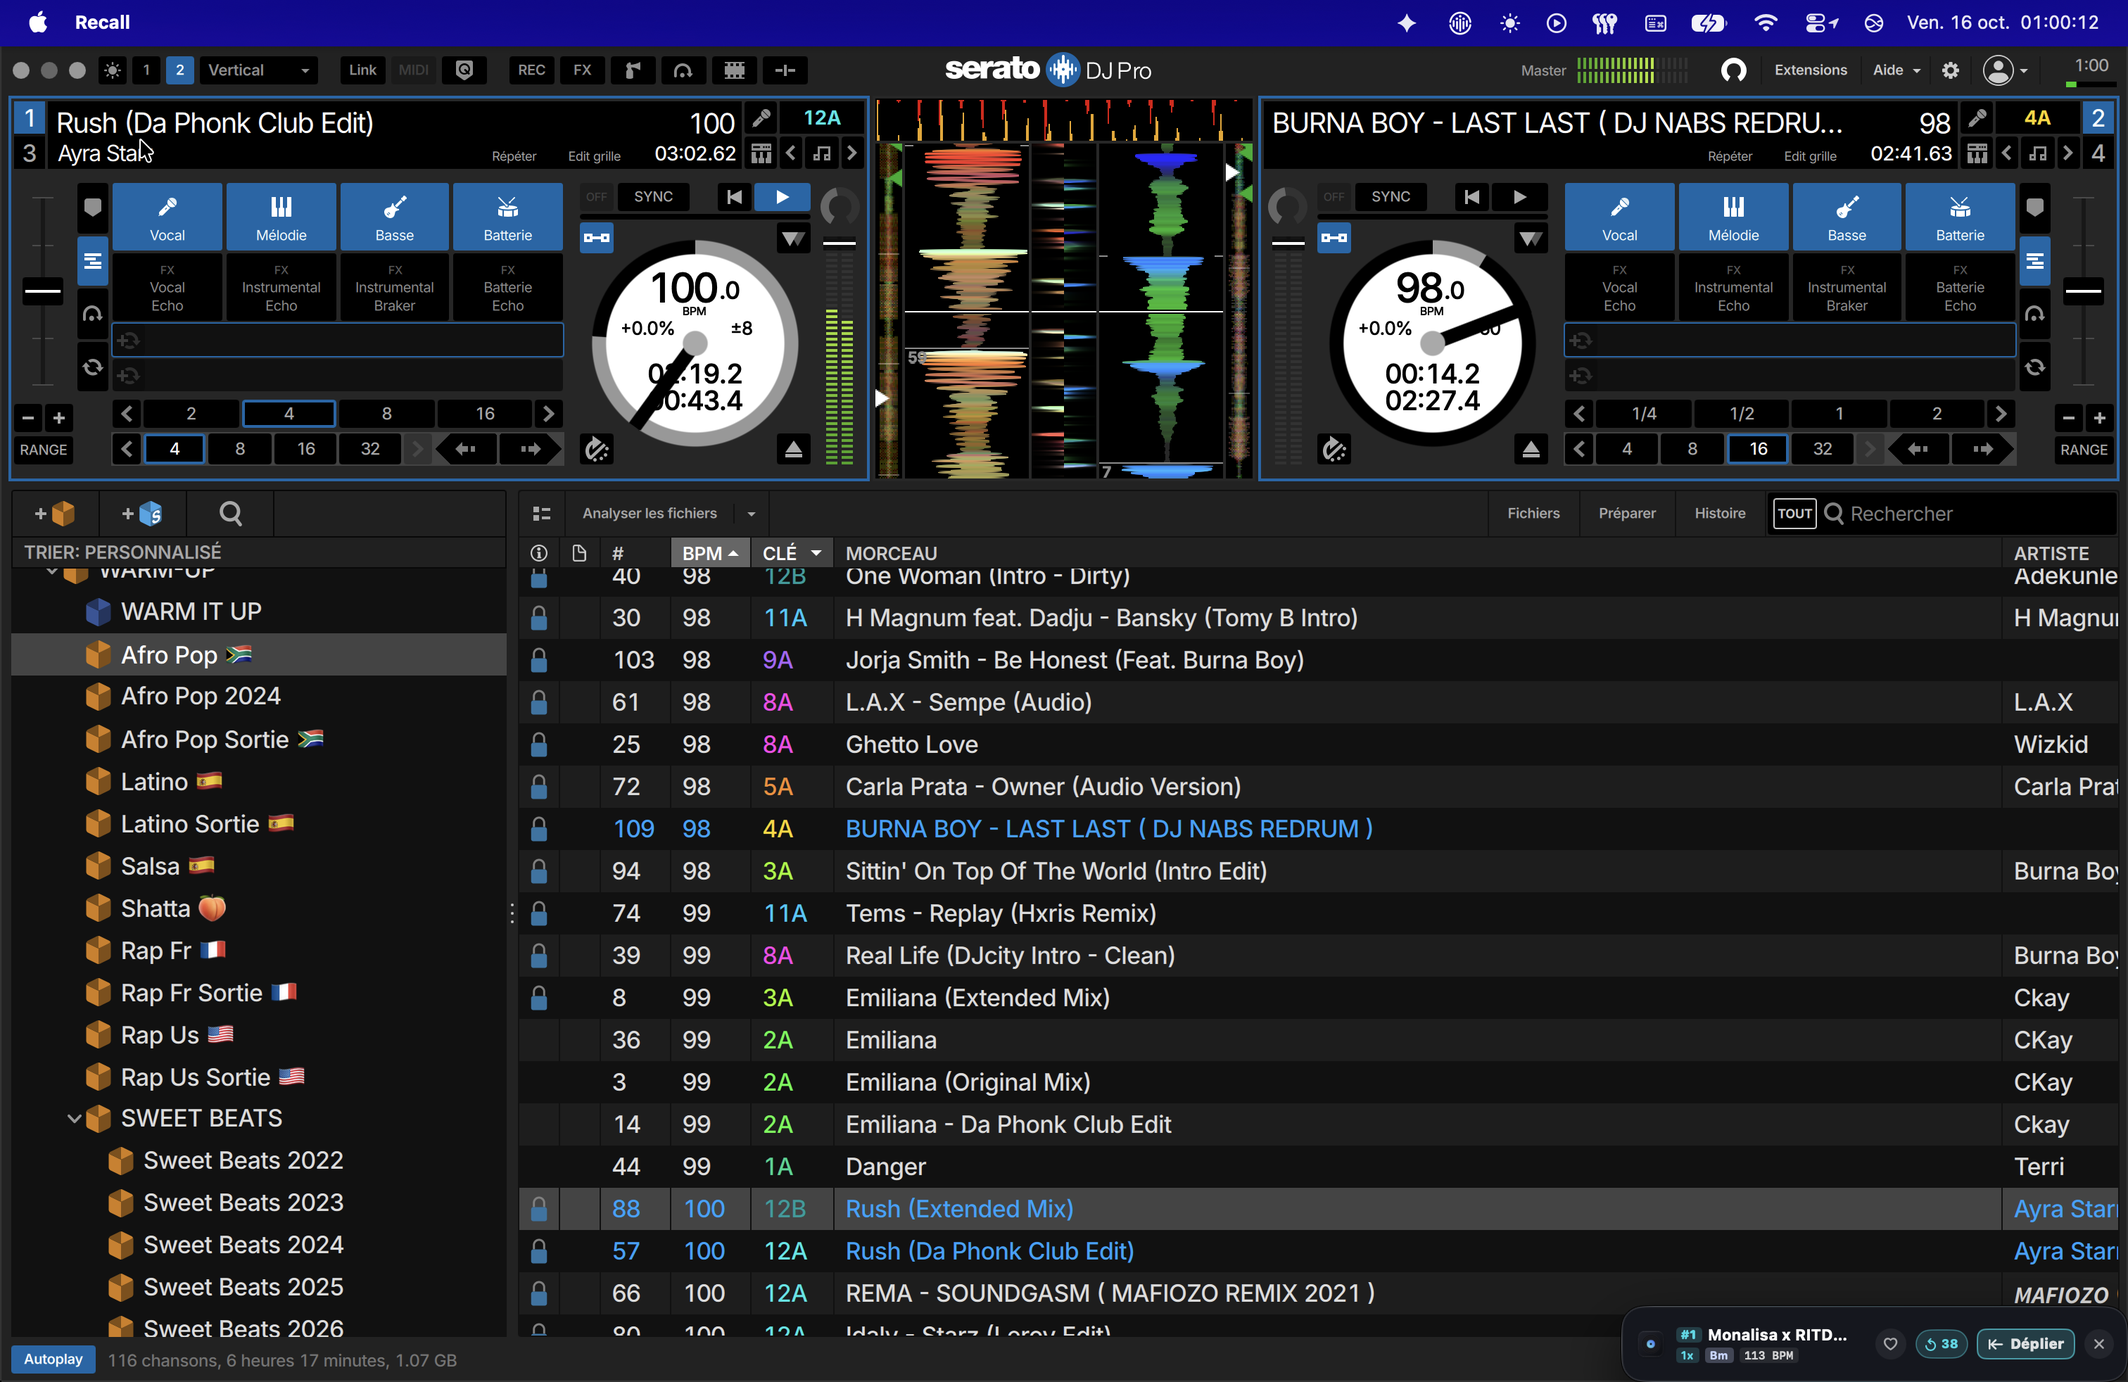
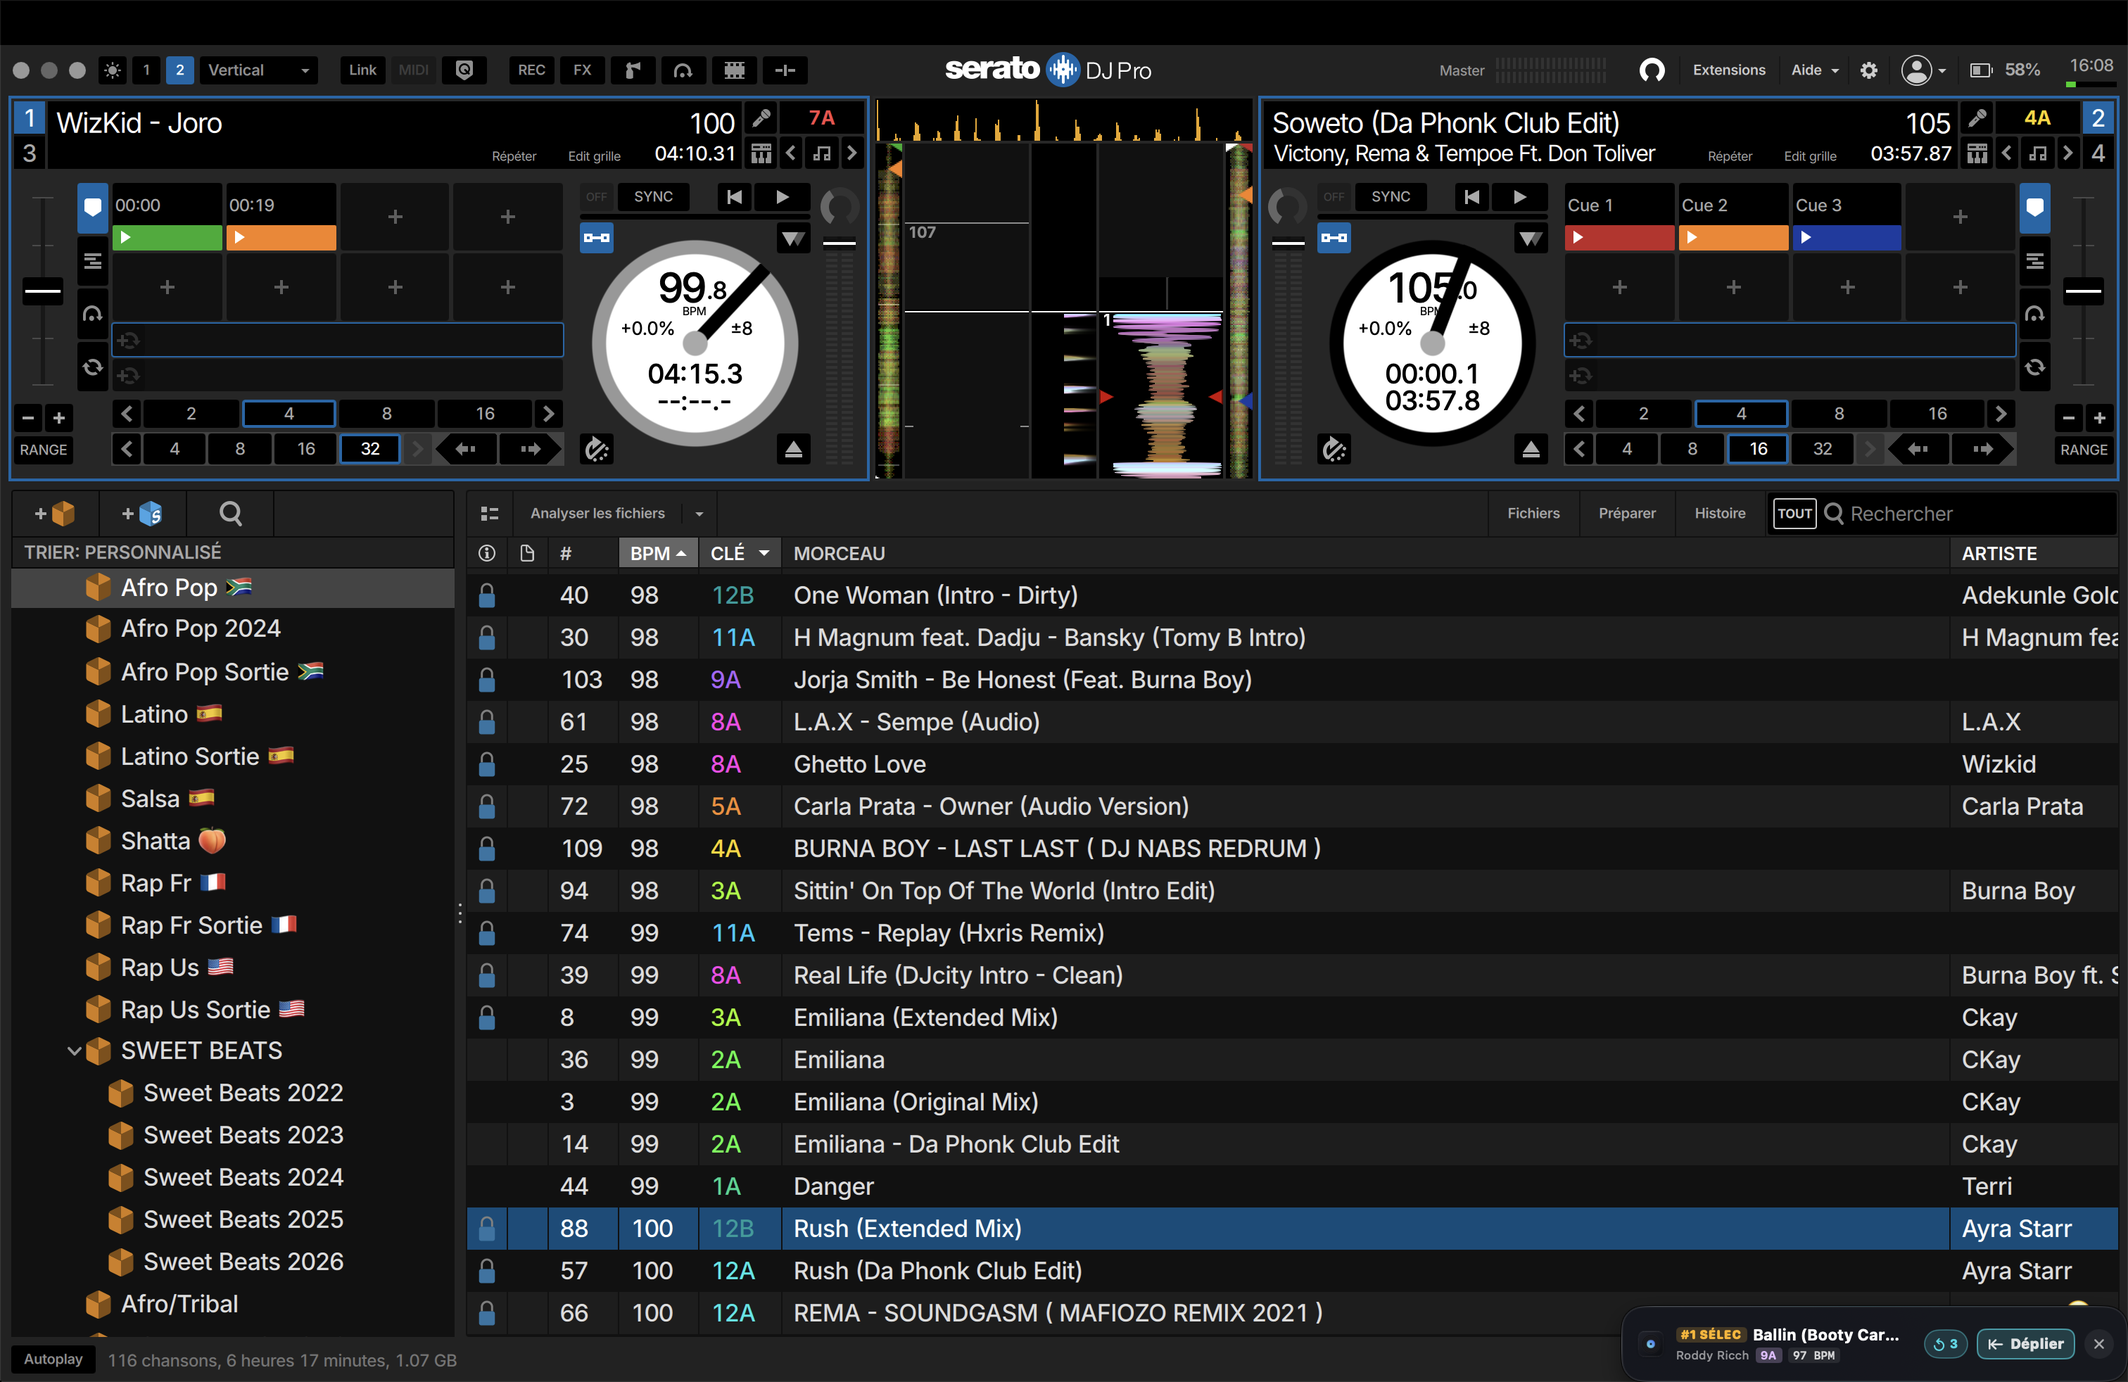
feat(web): mettre en avant la fonctionnalité Sélec et rafraîchir les captures Serato

diff --git a/docs/assets/js/main.js b/docs/assets/js/main.js
@@ -28,7 +28,7 @@ const translations = {
     "hero-pill-text": "Compagnon DJ Indépendant & 100 % Hors-Ligne",
     "hero-title-part1": "Ne perdez plus jamais le fil",
     "hero-title-part2": "de vos meilleurs mixes.",
-    "hero-subtitle": "Le copilote intelligent qui fouille vos historiques Serato et Rekordbox pour vous suggérer instantanément vos transitions éprouvées et vos enchaînements harmoniques Camelot en plein set.",
+    "hero-subtitle": "Le copilote intelligent qui fouille vos historiques Serato et Rekordbox pour vous suggérer instantanément vos transitions éprouvées, vos sélections préparées et vos enchaînements harmoniques Camelot en plein set.",
     "hero-btn-mac": "Télécharger pour macOS",
     "hero-btn-win": "Télécharger pour Windows",
     "hero-btn-github": "Code source GitHub",
@@ -42,10 +42,12 @@ const translations = {
     "mockups-title": "Conçu pour s'intégrer discrètement dans votre workflow DJ.",
     "mockups-subtitle": "Découvrez comment Recall s'incruste naturellement au-dessus de Serato DJ Pro et Pioneer Rekordbox en club ou en festival.",
     "mockup-tab-serato-floating": "Serato DJ Pro · Fenêtre Flottante",
+    "mockup-tab-serato-selec": "Serato DJ Pro · Onglet Sélec",
     "mockup-tab-serato-compact": "Serato DJ Pro · Bandeau Compact (78 px)",
     "mockup-tab-rekordbox": "Pioneer Rekordbox · Mode Pro",
     "mockup-tab-settings": "Paramètres & Clés Harmoniques",
     "mockup-caption-serato-floating": "Recall flottant au-dessus du browser Serato, affichant en temps réel vos routines éprouvées et vos enchaînements harmoniques.",
+    "mockup-caption-serato-selec": "L'onglet Sélec : glissez vos morceaux repérés depuis Serato pour les garder sous la main. Recall les trie automatiquement en direct selon l'affinité BPM et harmonique avec le titre en cours de lecture.",
     "mockup-caption-serato-compact": "Mode Bandeau ultra-compact de 78 px : surveillance discrète au bas de l'écran, laissant 100 % d'espace pour les waveforms et les platines.",
     "mockup-caption-rekordbox": "Compatibilité totale avec Pioneer Rekordbox en mode Performance : suggestions instantanées à chaque sélection de track.",
     "mockup-caption-settings": "Panneau de configuration avec estompage doux : ajustez la tolérance BPM, choisissez entre Camelot et Musicale, et activez le mode Always on Top.",
@@ -71,6 +73,9 @@ const translations = {
     "f2-title": "Harmonie Camelot Wheel",
     "f2-desc": "Chaque suggestion affiche sa clé Camelot exacte, ses clés voisines (+1/-1 heure), ses relatifs majeurs/mineurs ou ses boosts d'énergie (+2 heures) pour un mix harmonieux sans fausse note.",
     "f2-badge": "Compatible Clés Musicales & Open Key",
+    "f-selec-title": "Sélec : Votre Scratchpad DJ & Match Dynamique",
+    "f-selec-desc": "Préparez vos sets sans stress : glissez vos pépites depuis Serato directement dans votre Sélec. Vos morceaux restent mémorisés d'une session à l'autre et se réordonnent automatiquement en direct selon leur compatibilité (BPM et clé Camelot) avec le morceau en cours de lecture.",
+    "f-selec-badge": "Tri automatique par BPM & Camelot",
     "f3-title": "Glisser-Déposer Direct (Drag & Drop)",
     "f3-desc": "Attrapez un titre depuis Recall et glissez-le directement sur la platine 1, 2 ou dans vos bacs de Serato et Rekordbox. Zéro manipulation fastidieuse.",
     "f3-badge": "Natif macOS & Windows",
@@ -127,6 +132,10 @@ const translations = {
     "row5-recall": "< 25 Mo / 0 % CPU",
     "row5-spotify": "> 400 Mo + Connexion",
     "row5-notes": "0 Mo (mais statique)",
+    "row6-name": "Scratchpad \"Sélec\" avec tri dynamique",
+    "row6-val-recall": "✅ OUI (Persistant & Trié en direct)",
+    "row6-val-spotify": "❌ Non",
+    "row6-val-notes": "❌ Non (Bacs fixes ou papier)",
     
     // Downloads
     "dl-tag": "Téléchargement Gratuit",
@@ -201,7 +210,7 @@ const translations = {
     "hero-pill-text": "Independent & 100% Offline DJ Companion",
     "hero-title-part1": "Never lose track",
     "hero-title-part2": "of your best mixes.",
-    "hero-subtitle": "The smart DJ copilot that mines your Serato & Rekordbox history to instantly recommend proven routines and Camelot harmonic transitions in live sets.",
+    "hero-subtitle": "The smart DJ copilot that mines your Serato & Rekordbox history to instantly recommend proven routines, prepped selections, and Camelot harmonic transitions in live sets.",
     "hero-btn-mac": "Download for macOS",
     "hero-btn-win": "Download for Windows",
     "hero-btn-github": "GitHub Source Code",
@@ -215,10 +224,12 @@ const translations = {
     "mockups-title": "Engineered to blend seamlessly into your live DJ setup.",
     "mockups-subtitle": "See how Recall sits discreetly above Serato DJ Pro and Pioneer Rekordbox in the club or at festival stages.",
     "mockup-tab-serato-floating": "Serato DJ Pro · Floating Window",
+    "mockup-tab-serato-selec": "Serato DJ Pro · Sélec Tab",
     "mockup-tab-serato-compact": "Serato DJ Pro · Compact Dock (78 px)",
     "mockup-tab-rekordbox": "Pioneer Rekordbox · Pro Mode",
     "mockup-tab-settings": "Settings & Harmonic Keys",
     "mockup-caption-serato-floating": "Recall floating over Serato crate browser, delivering real-time harmonic matches and proven DJ routines on the fly.",
+    "mockup-caption-serato-selec": "The Sélec tab: drop your prep tracks directly from Serato to keep them handy. Recall ranks them live based on BPM and harmonic match with the currently playing track.",
     "mockup-caption-serato-compact": "78px Ultra-Compact Dock mode: subtle monitoring docked at screen bottom, preserving 100% visibility for waveforms and decks.",
     "mockup-caption-rekordbox": "Full compatibility with Pioneer Rekordbox in Performance mode: instant harmonic suggestions on every track transition.",
     "mockup-caption-settings": "Clean settings sheet with soft dimming backdrop: customize BPM tolerance, harmonic key formats, and Always on Top mode.",
@@ -244,6 +255,9 @@ const translations = {
     "f2-title": "Camelot Wheel Harmonic Mixing",
     "f2-desc": "Every suggestion displays exact Camelot keys, adjacent keys (+1/-1 hr), relative major/minor, or +2 energy boost keys for harmonious blends without clashing frequencies.",
     "f2-badge": "Supports Classic & Musical Key modes",
+    "f-selec-title": "Sélec: Smart DJ Scratchpad & Dynamic Match",
+    "f-selec-desc": "Prep your sets with zero stress: drop your hidden gems directly from Serato into your Sélec crate. Your tracks stay saved across sessions and automatically re-order in real time based on BPM and Camelot harmonic compatibility with what's currently playing.",
+    "f-selec-badge": "Live BPM & Camelot Match Ranking",
     "f3-title": "Direct Drag & Drop",
     "f3-desc": "Grab any suggested track right out of Recall and drag it onto Deck 1, Deck 2, or your crates in Serato and Rekordbox. No tedious searching.",
     "f3-badge": "macOS & Windows Native",
@@ -300,6 +314,10 @@ const translations = {
     "row5-recall": "< 25 MB / 0% CPU",
     "row5-spotify": "> 400 MB + Internet",
     "row5-notes": "0 MB (Static & rigid)",
+    "row6-name": "Smart 'Sélec' scratchpad with dynamic match",
+    "row6-val-recall": "✅ YES (Persistent & Live-sorted)",
+    "row6-val-spotify": "❌ No",
+    "row6-val-notes": "❌ No (Static crates or paper)",
     
     // Downloads
     "dl-tag": "Free Download",
@@ -444,6 +462,17 @@ function setLanguage(lang) {
   const activeMobileBtn = document.getElementById(`lang-${currentLang}-mobile`);
   if (activeMobileBtn) activeMobileBtn.classList.add("active");
 
+  // Update mockup title in current language
+  if (typeof getMockupTitles === "function") {
+    const activeTab = document.querySelector(".mockup-tab-btn.active");
+    const titleText = document.getElementById("mockup-title-text");
+    if (activeTab && titleText) {
+      const targetId = activeTab.getAttribute("data-mockup-target");
+      const titles = getMockupTitles(currentLang);
+      if (titles[targetId]) titleText.textContent = titles[targetId];
+    }
+  }
+
   document.documentElement.lang = currentLang;
 }
 
@@ -537,19 +566,31 @@ function initFAQ() {
 }
 
 // --- Mockups Showcase Tabs ---
+function getMockupTitles(lang) {
+  if (lang === "en") {
+    return {
+      "mockup-serato-floating": "Serato DJ Pro — Recall 1.0 (Floating Mode)",
+      "mockup-serato-selec": "Serato DJ Pro — Recall 1.0 (Sélec Scratchpad)",
+      "mockup-serato-compact": "Serato DJ Pro — Recall 1.0 (78px Compact Dock Mode)",
+      "mockup-rekordbox": "Pioneer Rekordbox — Recall 1.0 (Performance Mode)",
+      "mockup-settings": "Recall 1.0 — Settings Sheet & Soft Dimming"
+    };
+  }
+  return {
+    "mockup-serato-floating": "Serato DJ Pro — Recall 1.0 (Mode Flottant)",
+    "mockup-serato-selec": "Serato DJ Pro — Recall 1.0 (Onglet Sélec & Scratchpad)",
+    "mockup-serato-compact": "Serato DJ Pro — Recall 1.0 (Mode Bandeau Compact 78 px)",
+    "mockup-rekordbox": "Pioneer Rekordbox — Recall 1.0 (Mode Performance)",
+    "mockup-settings": "Recall 1.0 — Panneau des Paramètres & Estompage"
+  };
+}
+
 function initMockupTabs() {
   const tabs = document.querySelectorAll(".mockup-tab-btn");
   const panels = document.querySelectorAll(".mockup-panel");
   const titleText = document.getElementById("mockup-title-text");
 
   if (!tabs.length || !panels.length) return;
-
-  const titles = {
-    "mockup-serato-floating": "Serato DJ Pro — Recall 1.0 (Mode Flottant)",
-    "mockup-serato-compact": "Serato DJ Pro — Recall 1.0 (Mode Bandeau Compact 78 px)",
-    "mockup-rekordbox": "Pioneer Rekordbox — Recall 1.0 (Mode Performance)",
-    "mockup-settings": "Recall 1.0 — Panneau des Paramètres & Estompage"
-  };
 
   tabs.forEach(tab => {
     tab.addEventListener("click", () => {
@@ -568,6 +609,7 @@ function initMockupTabs() {
       const activePanel = document.getElementById(targetId);
       if (activePanel) activePanel.classList.add("active");
 
+      const titles = getMockupTitles(currentLang);
       if (titleText && titles[targetId]) {
         titleText.textContent = titles[targetId];
       }

diff --git a/docs/index.html b/docs/index.html
@@ -183,6 +183,10 @@
           <svg width="15" height="15" viewBox="0 0 24 24" fill="none" stroke="currentColor" stroke-width="2"><rect x="3" y="3" width="18" height="18" rx="3"/><path d="M9 3v18"/></svg>
           <span data-i18n="mockup-tab-serato-floating">Serato DJ Pro · Fenêtre Flottante</span>
         </button>
+        <button type="button" class="mockup-tab-btn" data-mockup-target="mockup-serato-selec" role="tab" aria-selected="false">
+          <svg width="15" height="15" viewBox="0 0 24 24" fill="none" stroke="currentColor" stroke-width="2"><path d="M19 21l-7-5-7 5V5a2 2 0 0 1 2-2h10a2 2 0 0 1 2 2z"/></svg>
+          <span data-i18n="mockup-tab-serato-selec">Serato DJ Pro · Onglet Sélec</span>
+        </button>
         <button type="button" class="mockup-tab-btn" data-mockup-target="mockup-serato-compact" role="tab" aria-selected="false">
           <svg width="15" height="15" viewBox="0 0 24 24" fill="none" stroke="currentColor" stroke-width="2"><rect x="3" y="14" width="18" height="7" rx="2"/></svg>
           <span data-i18n="mockup-tab-serato-compact">Serato DJ Pro · Bandeau Compact (78 px)</span>
@@ -224,7 +228,16 @@
             </div>
           </div>
 
-          <!-- Item 2: Serato Compact Dock -->
+          <!-- Item 2: Serato Sélec Drawer -->
+          <div class="mockup-panel" id="mockup-serato-selec">
+            <img src="assets/images/recall-serato-selec.png" alt="Recall avec l'onglet Sélec ouvert au-dessus de Serato DJ Pro" class="mockup-img" loading="lazy">
+            <div class="mockup-caption-overlay">
+              <span class="caption-pill amber">🔖 Scratchpad Sélec</span>
+              <p data-i18n="mockup-caption-serato-selec">L'onglet Sélec : glissez vos morceaux repérés depuis Serato pour les garder sous la main. Recall les trie automatiquement en direct selon l'affinité BPM et harmonique avec le titre en cours de lecture.</p>
+            </div>
+          </div>
+
+          <!-- Item 3: Serato Compact Dock -->
           <div class="mockup-panel" id="mockup-serato-compact">
             <img src="assets/images/recall-compact-serato.png" alt="Recall en mode bandeau compact 78px dans Serato DJ Pro" class="mockup-img" loading="lazy">
             <div class="mockup-caption-overlay">
@@ -233,7 +246,7 @@
             </div>
           </div>
 
-          <!-- Item 3: Rekordbox Pro Mode -->
+          <!-- Item 4: Rekordbox Pro Mode -->
           <div class="mockup-panel" id="mockup-rekordbox">
             <img src="assets/images/recall-rekordbox.png" alt="Recall compatible avec Pioneer Rekordbox" class="mockup-img" loading="lazy">
             <div class="mockup-caption-overlay">
@@ -242,7 +255,7 @@
             </div>
           </div>
 
-          <!-- Item 4: Settings & Backdrop -->
+          <!-- Item 5: Settings & Backdrop -->
           <div class="mockup-panel" id="mockup-settings">
             <img src="assets/images/recall-settings-backdrop.png" alt="Paramètres de Recall avec fond obscurci" class="mockup-img" loading="lazy">
             <div class="mockup-caption-overlay">
@@ -335,6 +348,18 @@
           <span class="bento-highlight" data-i18n="f2-badge">Compatible Clés Musicales & Open Key</span>
         </div>
 
+        <!-- Feature NEW: Sélec Scratchpad (Col 8) -->
+        <div class="bento-card col-8" style="background: linear-gradient(135deg, rgba(245, 158, 11, 0.08), rgba(20, 25, 35, 0.9)); border-color: rgba(245, 158, 11, 0.25);">
+          <div>
+            <span class="bento-icon">🔖</span>
+            <h3 class="bento-title" data-i18n="f-selec-title">Sélec : Votre Scratchpad DJ & Match Dynamique</h3>
+            <p class="bento-desc" data-i18n="f-selec-desc">
+              Préparez vos sets sans stress : glissez vos pépites depuis Serato directement dans votre Sélec. Vos morceaux restent mémorisés d'une session à l'autre et se réordonnent automatiquement en direct selon leur compatibilité (BPM et clé Camelot) avec le morceau en cours de lecture.
+            </p>
+          </div>
+          <span class="bento-highlight" style="color: #fbbf24; border-color: rgba(245, 158, 11, 0.3);" data-i18n="f-selec-badge">Tri automatique par BPM & Camelot</span>
+        </div>
+
         <!-- Feature 3: Drag & Drop (Col 4) -->
         <div class="bento-card col-4">
           <div>
@@ -347,8 +372,8 @@
           <span class="bento-highlight" data-i18n="f3-badge">Natif macOS & Windows</span>
         </div>
 
-        <!-- Feature 4: Compact Bar (Col 4) -->
-        <div class="bento-card col-4">
+        <!-- Feature 4: Compact Bar (Col 6) -->
+        <div class="bento-card col-6">
           <div>
             <span class="bento-icon">📏</span>
             <h3 class="bento-title" data-i18n="f4-title">Bandeau Compact Ultra-Fin (78 px)</h3>
@@ -359,8 +384,8 @@
           <span class="bento-highlight" data-i18n="f4-badge">Fenêtre toujours au premier plan</span>
         </div>
 
-        <!-- Feature 5: Auto-Detection (Col 4) -->
-        <div class="bento-card col-4">
+        <!-- Feature 5: Auto-Detection (Col 6) -->
+        <div class="bento-card col-6">
           <div>
             <span class="bento-icon">⚡</span>
             <h3 class="bento-title" data-i18n="f5-title">Détection Automatique (0,1 ms)</h3>
@@ -500,6 +525,12 @@
               <td class="highlight-col" style="color: var(--cyan-primary); font-weight: 700;" data-i18n="row5-recall">< 25 Mo / 0 % CPU</td>
               <td data-i18n="row5-spotify">> 400 Mo + Connexion</td>
               <td data-i18n="row5-notes">0 Mo (mais statique)</td>
+            </tr>
+            <tr>
+              <td data-i18n="row6-name">Scratchpad "Sélec" avec tri dynamique</td>
+              <td class="highlight-col" style="color: var(--accent-emerald); font-weight: 700;" data-i18n="row6-val-recall">✅ OUI (Persistant & Trié en direct)</td>
+              <td data-i18n="row6-val-spotify">❌ Non</td>
+              <td data-i18n="row6-val-notes">❌ Non (Bacs fixes ou papier)</td>
             </tr>
           </tbody>
         </table>

diff --git a/docs/assets/css/styles.css b/docs/assets/css/styles.css
@@ -2083,6 +2083,11 @@ img {
   color: #c471ed;
 }
 
+.caption-pill.amber {
+  background: rgba(245, 158, 11, 0.2);
+  color: #fbbf24;
+}
+
 .mockup-caption-overlay p {
   font-size: 0.84rem;
   color: #e0e5f0;
